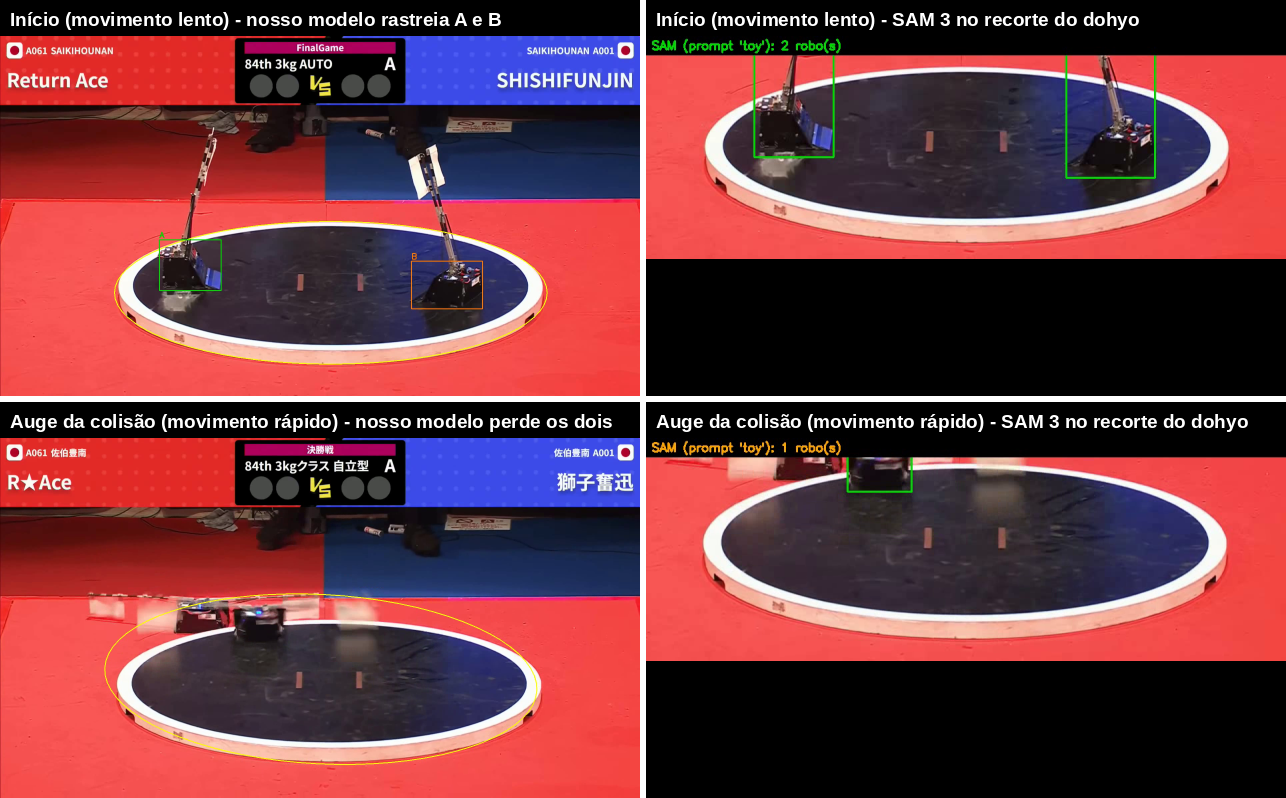
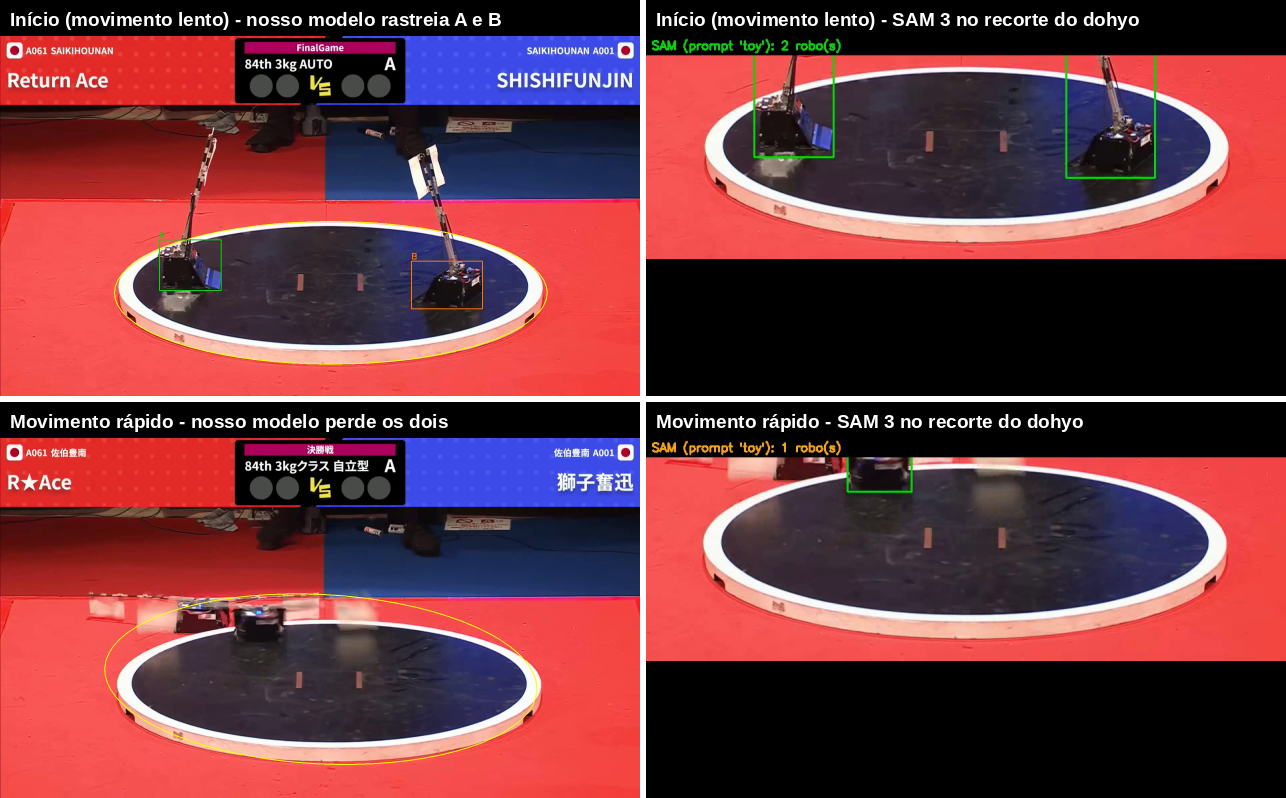
docs(paper): label the hard world-final frame as fast motion, not collision peak

Changed region(s): [[0.4977, 0.5113, 0.9642, 0.5414], [0.0, 0.5113, 0.4666, 0.5414]]

diff --git a/experiments/pre-banca/compose_figures.py b/experiments/pre-banca/compose_figures.py
@@ -42,10 +42,10 @@ def both_robots_frame(json_path: Path) -> int:
 def tracking_loss_frame(json_path: Path, into: float = 0.3) -> int:
     """A frame inside the longest run where no robot is tracked: the model's failure.
 
-    During the violent collision the motion blur drops every box, so the trajectories
-    have a contiguous gap. Landing `into` the way through the longest such gap shows
-    the robots still mid-arena and clearly present, with nothing detected: the honest
-    counterpart to `both_robots_frame`, which only ever picks moments that work.
+    Under fast motion the blur drops every box, so the trajectories have a contiguous
+    gap. Landing `into` the way through the longest such gap shows the robots still
+    clearly present with nothing detected: the honest counterpart to `both_robots_frame`,
+    which only ever picks moments that work.
     """
     payload = json.loads(json_path.read_text())
     n = payload["n_frames"]
@@ -150,8 +150,8 @@ def worlds_model_vs_sam() -> None:
     clash_f = snap(tracking_loss_frame(r1))
     model_start = banner(fit_width(grab(WORLDS / "w_round1_overlay.mp4", start_f), cell), "Início (movimento lento) - nosso modelo rastreia A e B")
     sam_start = banner(fit_width(grab(WORLDS / "w_round1_SAM.mp4", start_f // SAM_DECIMATION), cell), "Início (movimento lento) - SAM 3 no recorte do dohyo")
-    model_clash = banner(fit_width(grab(WORLDS / "w_round1_overlay.mp4", clash_f), cell), "Auge da colisão (movimento rápido) - nosso modelo perde os dois")
-    sam_clash = banner(fit_width(grab(WORLDS / "w_round1_SAM.mp4", clash_f // SAM_DECIMATION), cell), "Auge da colisão (movimento rápido) - SAM 3 no recorte do dohyo")
+    model_clash = banner(fit_width(grab(WORLDS / "w_round1_overlay.mp4", clash_f), cell), "Movimento rápido - nosso modelo perde os dois")
+    sam_clash = banner(fit_width(grab(WORLDS / "w_round1_SAM.mp4", clash_f // SAM_DECIMATION), cell), "Movimento rápido - SAM 3 no recorte do dohyo")
     grid = vstack([hstack([model_start, sam_start]), hstack([model_clash, sam_clash])])
     cv2.imwrite(str(FIGURES / "worlds_model_vs_sam.png"), grid)
 